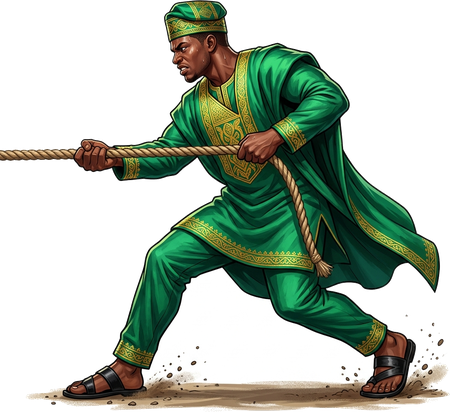
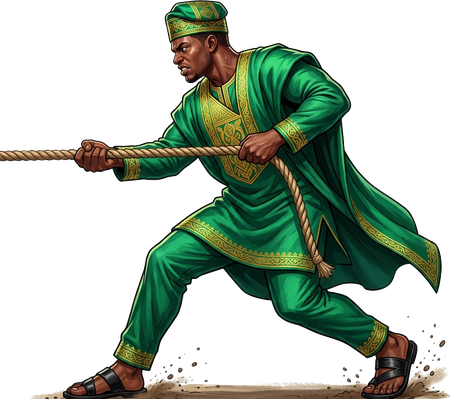
Fix character facing direction so pullers face inward towards the center rope, and clean transparent ground shadows

diff --git a/css/style.css b/css/style.css
@@ -635,12 +635,16 @@ body {
 .left-puller {
   left: 4px;
 }
+.left-puller .puller-char-wrap {
+  transform: scaleX(-1);
+}
+
 .right-puller {
   right: 4px;
   --puller-color: var(--red);
 }
 .right-puller .puller-char-wrap {
-  transform: scaleX(-1);
+  transform: scaleX(1);
 }
 
 /* Comic Speech Bubble on Strain / Pull */
@@ -758,45 +762,46 @@ body {
   animation: tug-lean-right 1.4s ease-in-out infinite alternate;
 }
 @keyframes tug-lean-left {
-  0%   { transform: rotate(0deg) translateY(0); }
-  100% { transform: rotate(-4deg) translateY(-1px); }
+  0%   { transform: scaleX(-1) rotate(0deg) translateY(0); }
+  100% { transform: scaleX(-1) rotate(4deg) translateY(-1px); }
 }
 @keyframes tug-lean-right {
-  0%   { transform: scaleX(-1) rotate(0deg) translateY(0); }
-  100% { transform: scaleX(-1) rotate(-4deg) translateY(-1px); }
+  0%   { transform: scaleX(1) rotate(0deg) translateY(0); }
+  100% { transform: scaleX(1) rotate(-4deg) translateY(-1px); }
 }
 
 /* 2. PULLING HARD (When winning / pulling) */
-.tug-puller.pulling-hard .puller-char-wrap {
-  animation: pull-heave 0.65s cubic-bezier(0.36, 0.07, 0.19, 0.97) infinite !important;
+.left-puller.pulling-hard .puller-char-wrap {
+  animation: pull-heave-left 0.65s cubic-bezier(0.36, 0.07, 0.19, 0.97) infinite !important;
   filter: drop-shadow(0 0 10px var(--puller-color));
 }
 .right-puller.pulling-hard .puller-char-wrap {
-  animation: pull-heave-flip 0.65s cubic-bezier(0.36, 0.07, 0.19, 0.97) infinite !important;
+  animation: pull-heave-right 0.65s cubic-bezier(0.36, 0.07, 0.19, 0.97) infinite !important;
+  filter: drop-shadow(0 0 10px var(--puller-color));
 }
-@keyframes pull-heave {
-  0%, 100% { transform: rotate(-5deg) translateX(0); }
-  50%      { transform: rotate(-14deg) translateX(-6px); }
+@keyframes pull-heave-left {
+  0%, 100% { transform: scaleX(-1) rotate(4deg) translateX(0); }
+  50%      { transform: scaleX(-1) rotate(14deg) translateX(6px); }
 }
-@keyframes pull-heave-flip {
-  0%, 100% { transform: scaleX(-1) rotate(-5deg) translateX(0); }
-  50%      { transform: scaleX(-1) rotate(-14deg) translateX(-6px); }
+@keyframes pull-heave-right {
+  0%, 100% { transform: scaleX(1) rotate(-4deg) translateX(0); }
+  50%      { transform: scaleX(1) rotate(-14deg) translateX(-6px); }
 }
 
 /* 3. BEING DRAGGED (When losing ground / slipping towards center) */
-.tug-puller.being-dragged .puller-char-wrap {
-  animation: dragged-slip 0.4s ease-in-out infinite alternate !important;
+.left-puller.being-dragged .puller-char-wrap {
+  animation: dragged-slip-left 0.4s ease-in-out infinite alternate !important;
 }
 .right-puller.being-dragged .puller-char-wrap {
-  animation: dragged-slip-flip 0.4s ease-in-out infinite alternate !important;
+  animation: dragged-slip-right 0.4s ease-in-out infinite alternate !important;
 }
-@keyframes dragged-slip {
-  0%   { transform: rotate(6deg) translateY(0); }
-  100% { transform: rotate(14deg) translateY(3px) translateX(4px); }
+@keyframes dragged-slip-left {
+  0%   { transform: scaleX(-1) rotate(-4deg) translateY(0); }
+  100% { transform: scaleX(-1) rotate(-12deg) translateY(2px) translateX(-4px); }
 }
-@keyframes dragged-slip-flip {
-  0%   { transform: scaleX(-1) rotate(6deg) translateY(0); }
-  100% { transform: scaleX(-1) rotate(14deg) translateY(3px) translateX(4px); }
+@keyframes dragged-slip-right {
+  0%   { transform: scaleX(1) rotate(4deg) translateY(0); }
+  100% { transform: scaleX(1) rotate(12deg) translateY(2px) translateX(4px); }
 }
 
 .tug-puller.being-dragged .puller-sweat {
@@ -820,35 +825,35 @@ body {
 }
 
 /* 4. DRAGGED LOSS (Lost match - fell into center mud pit) */
-.tug-puller.dragged-loss .puller-char-wrap {
-  animation: fallen-slip 0.8s forwards !important;
+.left-puller.dragged-loss .puller-char-wrap {
+  animation: fallen-slip-left 0.8s forwards !important;
 }
 .right-puller.dragged-loss .puller-char-wrap {
-  animation: fallen-slip-flip 0.8s forwards !important;
+  animation: fallen-slip-right 0.8s forwards !important;
 }
-@keyframes fallen-slip {
-  0%   { transform: rotate(0); }
-  100% { transform: rotate(60deg) translateY(14px) translateX(18px); filter: grayscale(0.5); }
-}
-@keyframes fallen-slip-flip {
+@keyframes fallen-slip-left {
   0%   { transform: scaleX(-1) rotate(0); }
-  100% { transform: scaleX(-1) rotate(60deg) translateY(14px) translateX(18px); filter: grayscale(0.5); }
+  100% { transform: scaleX(-1) rotate(-50deg) translateY(14px) translateX(-18px); filter: grayscale(0.5); }
+}
+@keyframes fallen-slip-right {
+  0%   { transform: scaleX(1) rotate(0); }
+  100% { transform: scaleX(1) rotate(50deg) translateY(14px) translateX(18px); filter: grayscale(0.5); }
 }
 
 /* 5. VICTORIOUS (Won the match) */
-.tug-puller.victorious .puller-char-wrap {
-  animation: victory-bounce 0.6s ease-in-out infinite alternate !important;
+.left-puller.victorious .puller-char-wrap {
+  animation: victory-bounce-left 0.6s ease-in-out infinite alternate !important;
 }
 .right-puller.victorious .puller-char-wrap {
-  animation: victory-bounce-flip 0.6s ease-in-out infinite alternate !important;
+  animation: victory-bounce-right 0.6s ease-in-out infinite alternate !important;
 }
-@keyframes victory-bounce {
-  0%   { transform: translateY(0) scale(1); }
-  100% { transform: translateY(-16px) scale(1.15); filter: drop-shadow(0 0 12px var(--gold)); }
-}
-@keyframes victory-bounce-flip {
+@keyframes victory-bounce-left {
   0%   { transform: scaleX(-1) translateY(0) scale(1); }
   100% { transform: scaleX(-1) translateY(-16px) scale(1.15); filter: drop-shadow(0 0 12px var(--gold)); }
+}
+@keyframes victory-bounce-right {
+  0%   { transform: scaleX(1) translateY(0) scale(1); }
+  100% { transform: scaleX(1) translateY(-16px) scale(1.15); filter: drop-shadow(0 0 12px var(--gold)); }
 }
 
 /* ---- Keypad (shared) ---- */

diff --git a/index.html b/index.html
@@ -9,7 +9,7 @@
   <link rel="alternate icon" href="favicon.ico" />
   <link rel="preconnect" href="https://fonts.googleapis.com" />
   <link href="https://fonts.googleapis.com/css2?family=Outfit:wght@400;600;700;900&family=Nunito:wght@400;700;800&display=swap" rel="stylesheet" />
-  <link rel="stylesheet" href="css/style.css?v=1.0.6" />
+  <link rel="stylesheet" href="css/style.css?v=1.0.7" />
 </head>
 <body>
 
@@ -640,12 +640,12 @@
 <script src="https://www.gstatic.com/firebasejs/10.7.1/firebase-firestore-compat.js"></script>
 
 <!-- App scripts -->
-<script src="js/config.js?v=1.0.6"></script>
-<script src="js/questions.js?v=1.0.6"></script>
-<script src="js/app.js?v=1.0.6"></script>
-<script src="js/auth.js?v=1.0.6"></script>
-<script src="js/lobby.js?v=1.0.6"></script>
-<script src="js/game.js?v=1.0.6"></script>
+<script src="js/config.js?v=1.0.7"></script>
+<script src="js/questions.js?v=1.0.7"></script>
+<script src="js/app.js?v=1.0.7"></script>
+<script src="js/auth.js?v=1.0.7"></script>
+<script src="js/lobby.js?v=1.0.7"></script>
+<script src="js/game.js?v=1.0.7"></script>
 
 <script>
 // ======================== GLOBAL UI HANDLERS ========================
